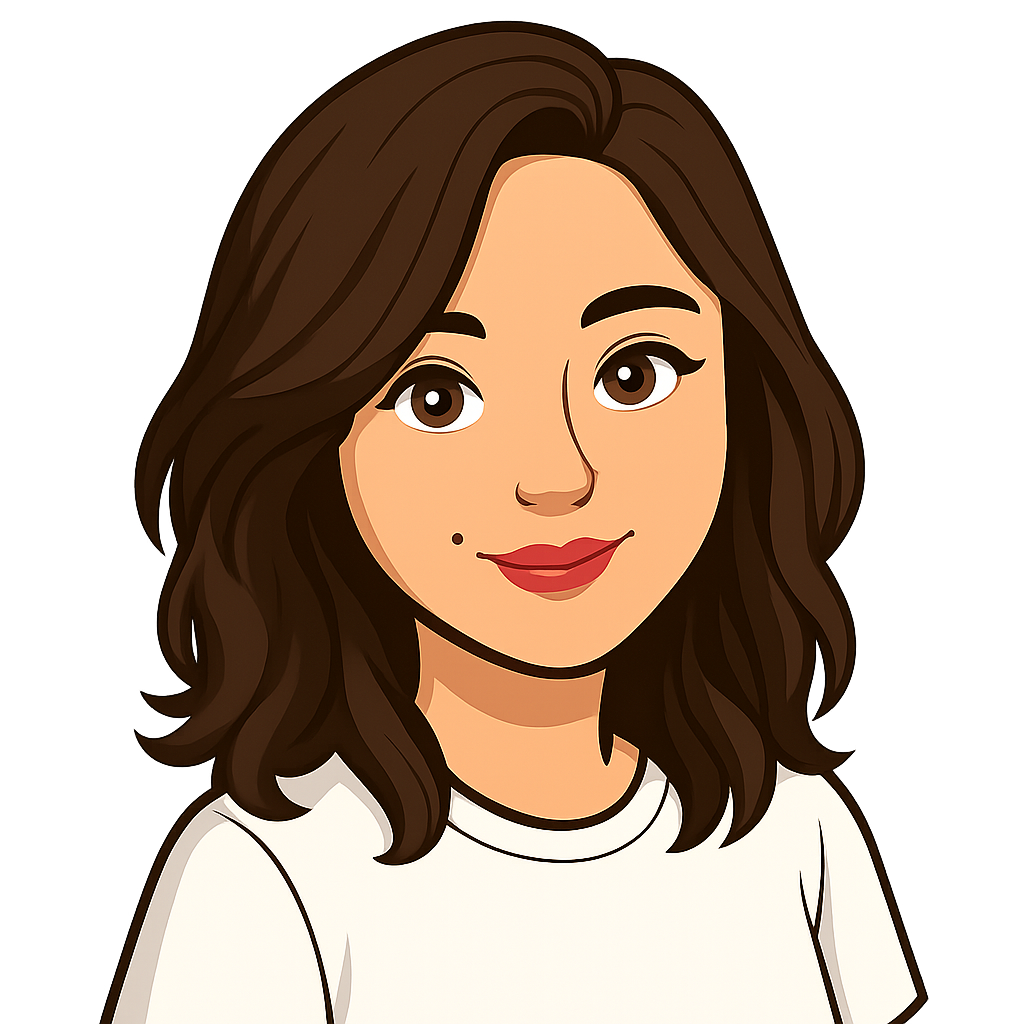
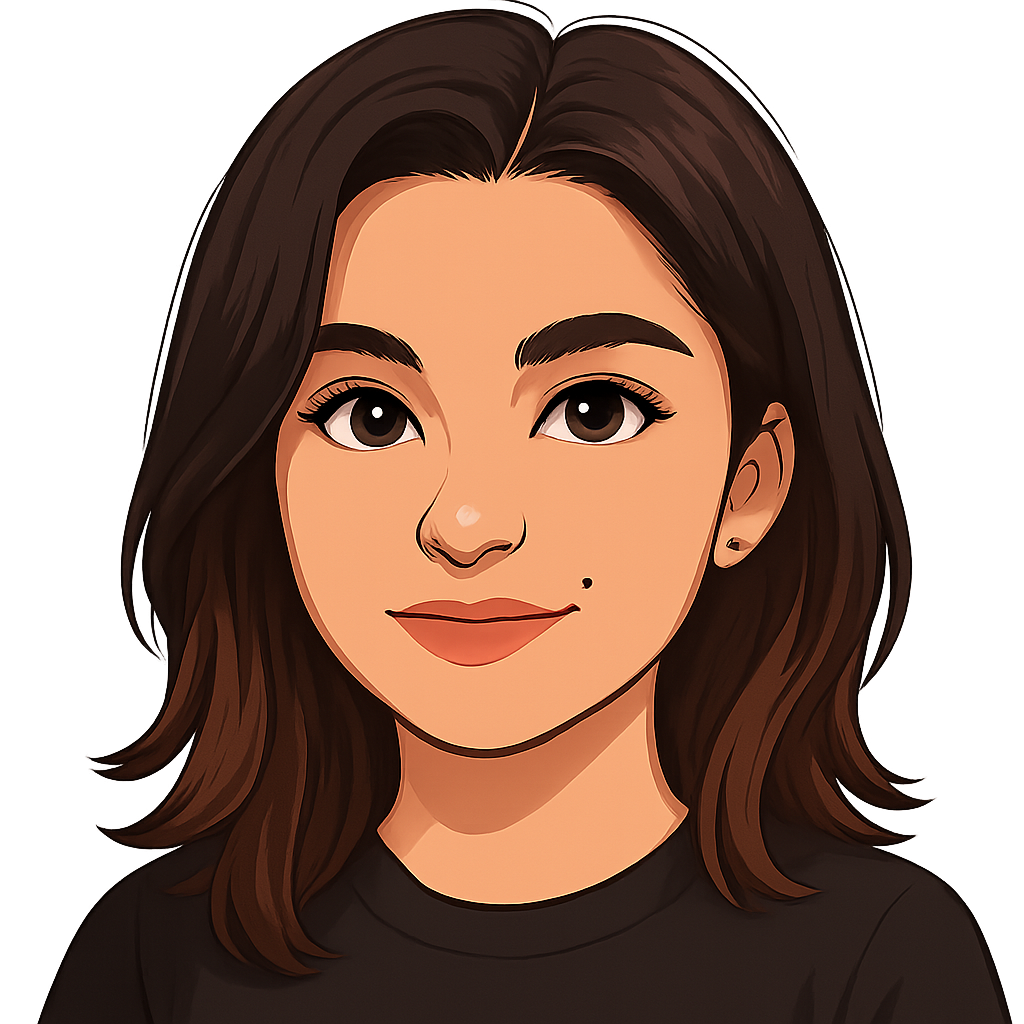
feat: update profile picture & basic gemini setup

diff --git a/src/app/api/ask-gemini/route.ts b/src/app/api/ask-gemini/route.ts
@@ -1,0 +1,44 @@
+import { GoogleGenAI } from '@google/genai'
+import { NextRequest, NextResponse } from 'next/server'
+
+const ai = new GoogleGenAI({
+  apiKey: process.env.GEMINI_API_KEY,
+})
+
+export async function POST(req: NextRequest) {
+  const { message } = await req.json()
+
+  const prompt = `${getContext()}\n\nUser: ${message}`
+
+  const result = await ai.models.generateContent({
+    model: process.env.MODEL || 'gemini-2.5-flash',
+    contents: {
+      role: 'user',
+      parts: [{ text: prompt }],
+    },
+  })
+
+  const text =
+    result.candidates?.[0]?.content?.parts?.[0]?.text ||
+    "Sorry, I couldn't generate a response."
+  return NextResponse.json({ text })
+}
+
+const getContext = () => {
+  return `
+        You are an ai assistant for Nicole Wert's Software engineering portfolio website.
+        Use the following information to answer to questions about Nicole to potential employers and developer collaborators. 
+
+        Name: 
+        Role: 
+        Location: 
+        Skills: 
+        Interests: 
+
+        Projects: 
+
+        Only respond to questions about Nicole Wert or these projects. 
+        If the question is unrelated, politely decline to answer.
+
+    `
+}
